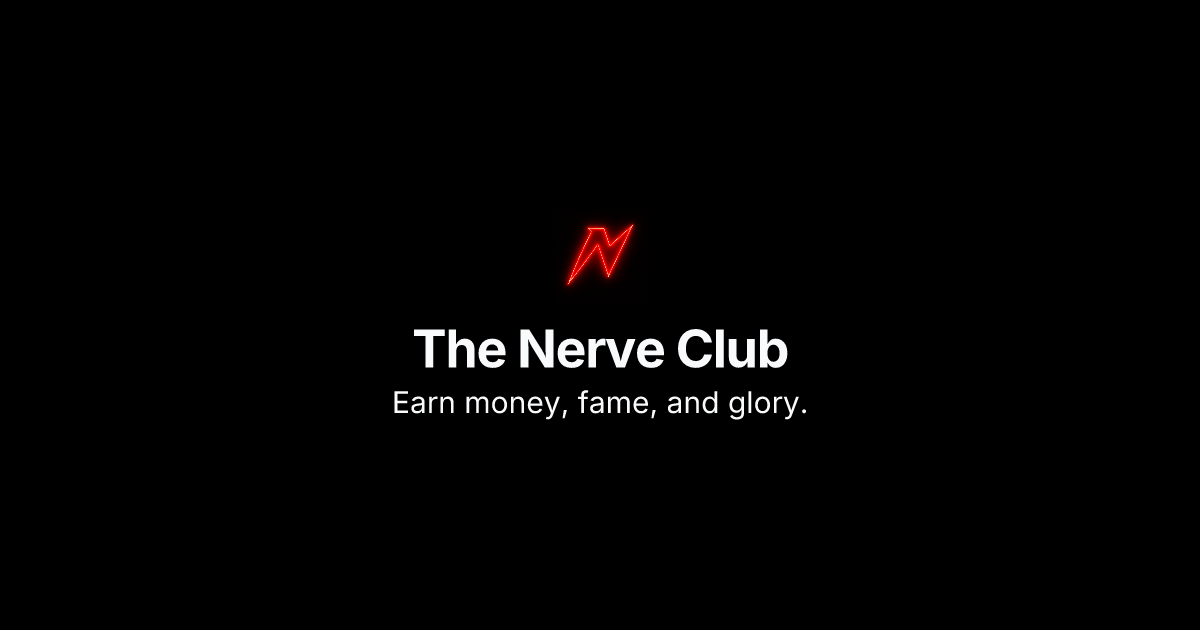
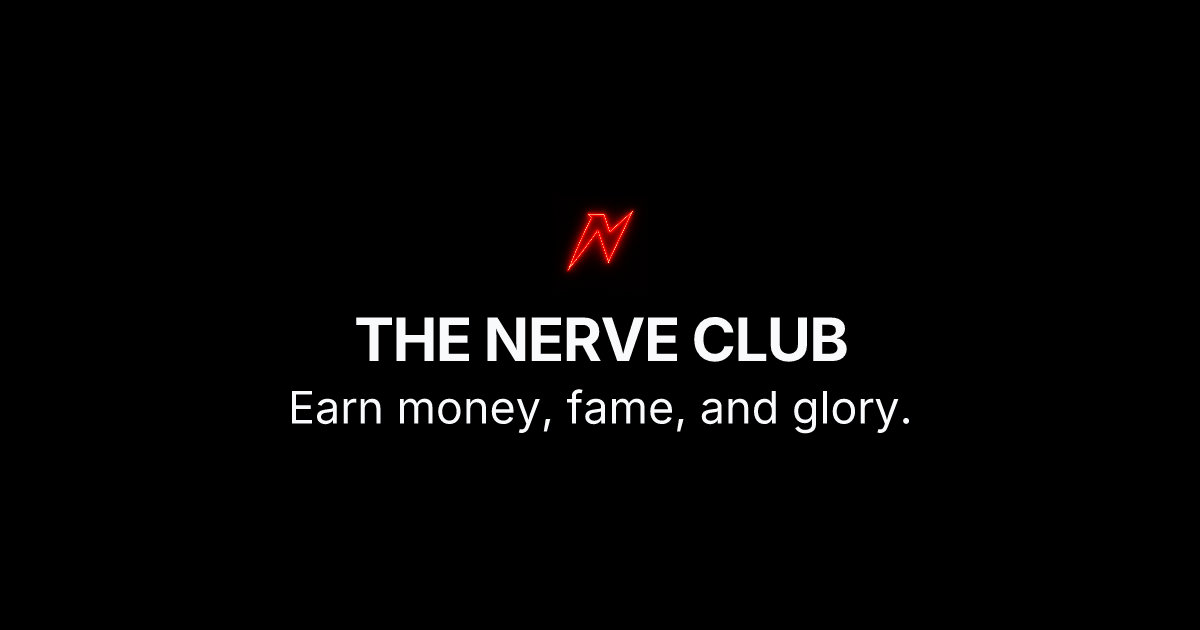
update

Changed region(s): [[0.2158, 0.4825, 0.7708, 0.6937], [0.4625, 0.3317, 0.555, 0.4524]]

diff --git a/app/page.tsx b/app/page.tsx
@@ -7,11 +7,11 @@ export default function Landing() {
 		<>
 			<div className="font-baskervville min-h-screen flex justify-center items-center p-0">
 				<div className="flex flex-col items-center justify-center w-[80%] cursor-default text-center sm:w-[95%]">
-					<div className="shine-text-container text-2xl xl:text-4xl xxl:text-6xl font-light uppercase mb-0">
+					<div className="shine-text-container text-3xl xl:text-5xl xxl:text-7xl font-light uppercase mb-0">
 						<span className="shine-text-base">The</span>
 						<span className="shine-text-overlay">The</span>
 					</div>
-					<div className="shine-text-container text-4xl xl:text-6xl xxl:text-8xl font-light uppercase mb-10">
+					<div className="shine-text-container text-5xl xl:text-7xl xxl:text-9xl font-light uppercase mb-10">
 						<span className="shine-text-base">Nerve Club</span>
 						<span className="shine-text-overlay">Nerve Club</span>
 					</div>
